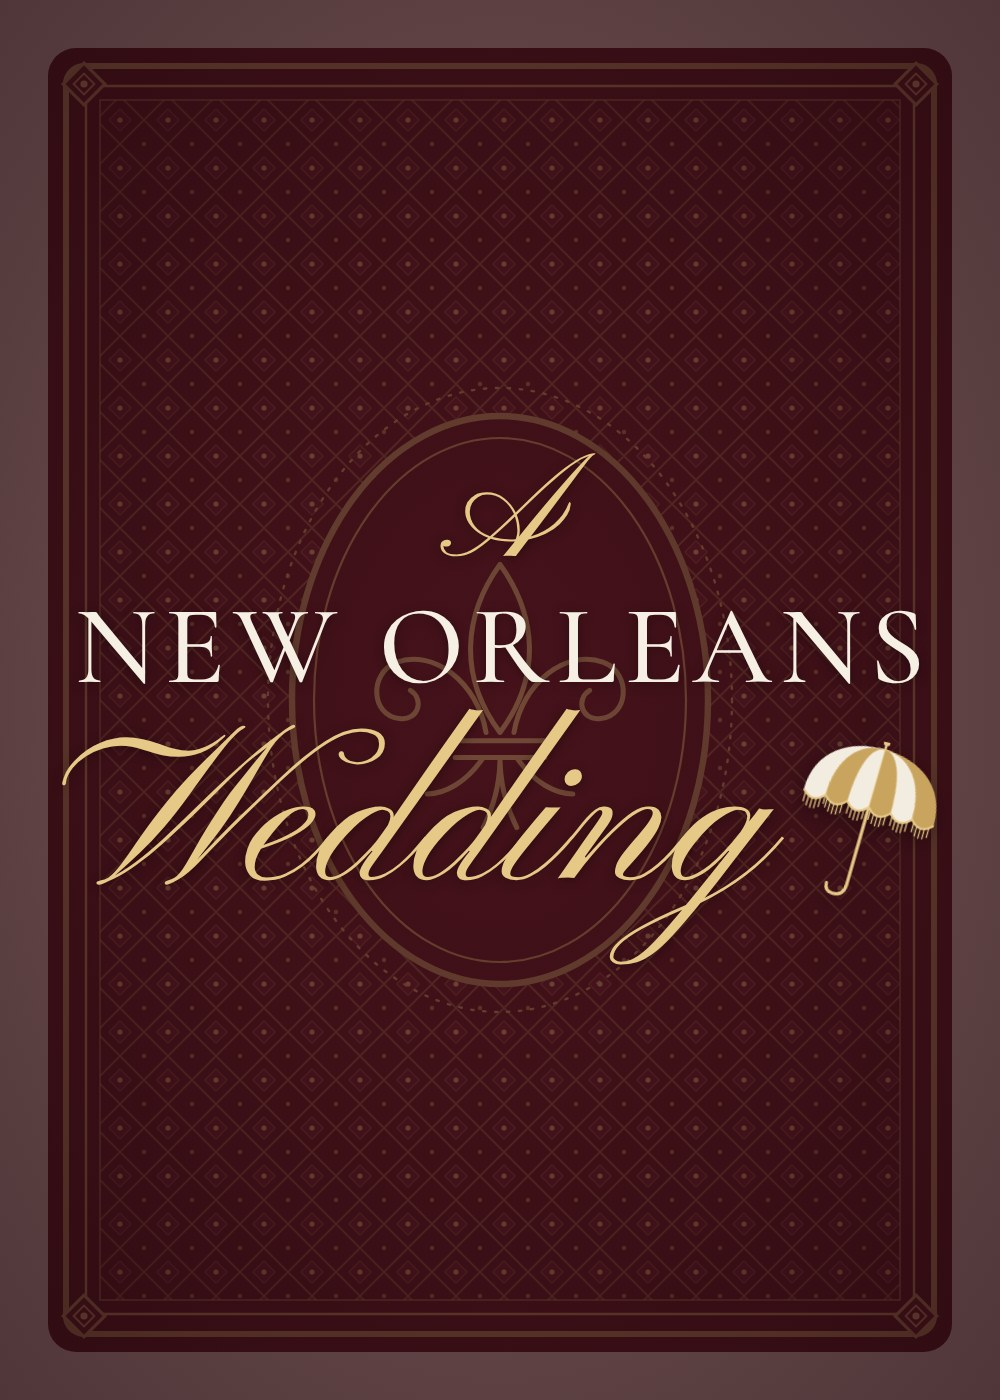
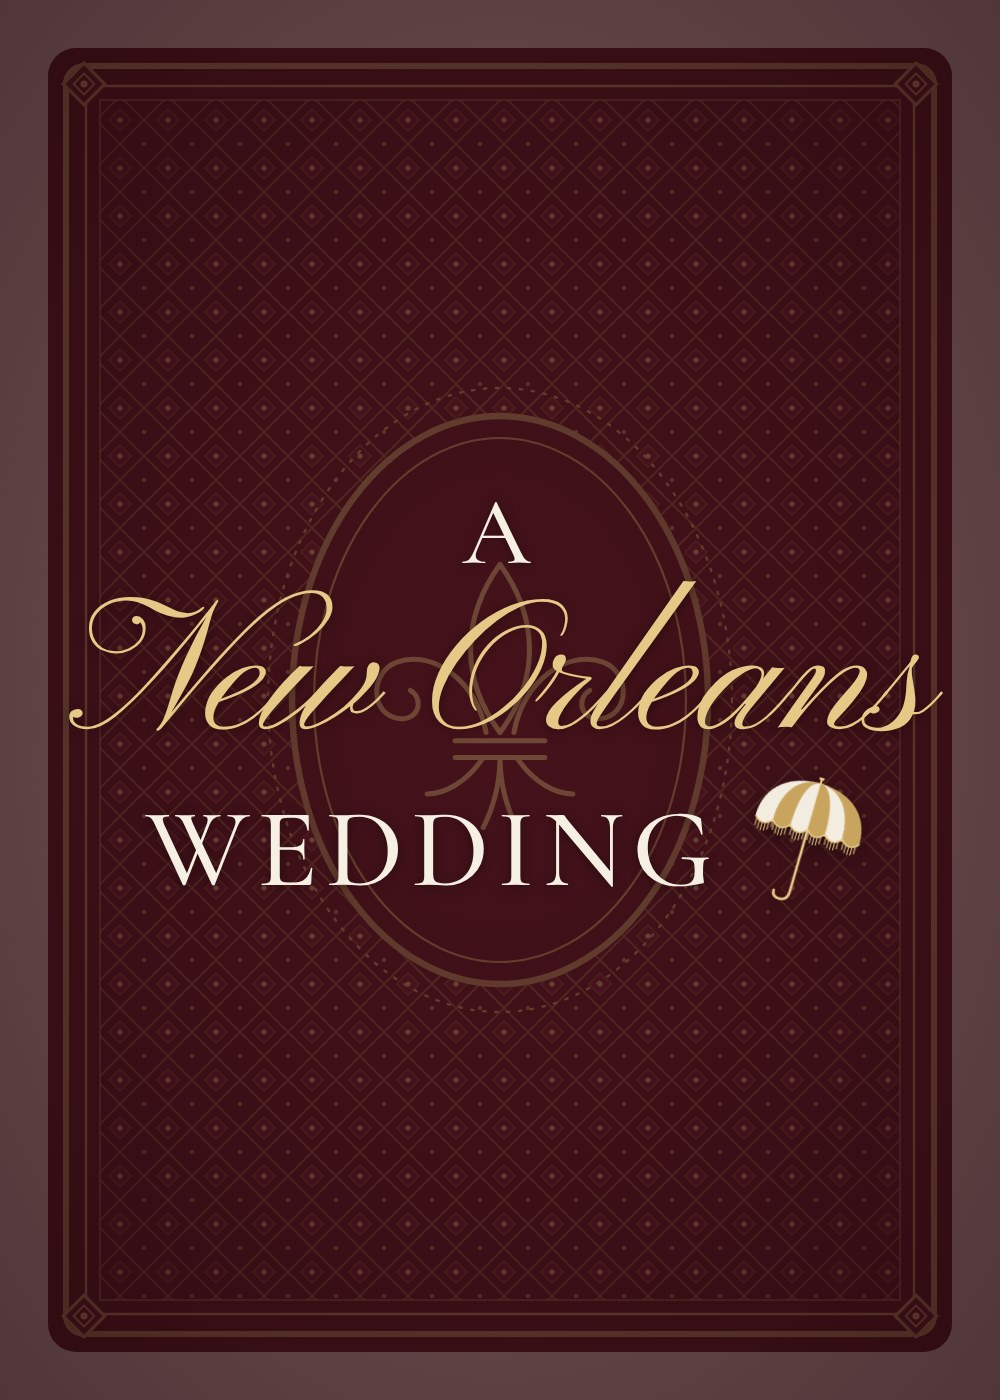
Preview tests: New Orleans in script, A and WEDDING in caps
Claude-Session: https://claude.ai/code/session_016KBQnmGzJaodTgtuWJa9K5

Changed region(s): [[0.062, 0.3993, 0.961, 0.7064], [0.434, 0.3071, 0.589, 0.3993], [0.093, 0.6143, 0.124, 0.645]]

diff --git a/tools/make-previews.js b/tools/make-previews.js
@@ -26,12 +26,12 @@ const titleCSS = (k) => `
 .wash{position:absolute;inset:0;background:radial-gradient(ellipse at center,rgba(58,14,22,.66) 0%,rgba(40,9,15,.8) 100%)}
 .title{position:absolute;inset:0;display:flex;flex-direction:column;align-items:center;justify-content:center;text-align:center;
   text-shadow:0 2px 12px rgba(0,0,0,.35)}
-.title .a{font-family:"Pinyon Script",cursive;color:#e6c887;font-size:${150*k}px;line-height:.85}
-.title .no{font-family:"Cormorant Garamond",Georgia,serif;font-weight:500;color:#f6f0e4;font-size:${112*k}px;letter-spacing:.07em;
-  padding-left:.07em;text-transform:uppercase;line-height:1.1;white-space:nowrap}
-.title .wed{display:flex;align-items:center;justify-content:center;gap:${18*k}px;margin-top:${4*k}px}
-.title .wed span{font-family:"Pinyon Script",cursive;color:#e6c887;font-size:${220*k}px;line-height:1.05}
-.title .wed .p{width:${150*k}px;transform:rotate(16deg) translateY(${-6*k}px);filter:drop-shadow(0 8px 10px rgba(0,0,0,.35))}
+.title .a{font-family:"Cormorant Garamond",Georgia,serif;font-weight:500;color:#f6f0e4;font-size:${96*k}px;letter-spacing:.07em;line-height:1}
+.title .no{font-family:"Pinyon Script",cursive;color:#e6c887;font-size:${190*k}px;line-height:1.15;white-space:nowrap;margin:${-6*k}px 0 ${-10*k}px}
+.title .wed{display:flex;align-items:center;justify-content:center;gap:${22*k}px}
+.title .wed span{font-family:"Cormorant Garamond",Georgia,serif;font-weight:500;color:#f6f0e4;font-size:${112*k}px;letter-spacing:.07em;
+  padding-left:.07em;text-transform:uppercase;line-height:1.1}
+.title .wed .p{width:${120*k}px;transform:rotate(16deg) translateY(${-8*k}px);filter:drop-shadow(0 8px 10px rgba(0,0,0,.35))}
 .title .wed .p svg{display:block;width:100%;height:auto}
 .title .wed .p path[stroke="#3a2a22"]{stroke:#e6c887}`;
 const titleHTML = `<div class="wash"></div><div class="title"><div class="a">A</div><div class="no">New Orleans</div>

diff --git a/preview-test/portrait.html b/preview-test/portrait.html
@@ -10,13 +10,13 @@
   <meta property="og:url" content="https://aneworleanswedding.com/preview-test/portrait.html">
   <meta property="og:title" content="Ailsa ⚜ André">
   <meta property="og:description" content="Save the date · January 8, 2028 · New Orleans, Louisiana">
-  <meta property="og:image" content="https://aneworleanswedding.com/assets/og-card-portrait.jpg?v=4">
+  <meta property="og:image" content="https://aneworleanswedding.com/assets/og-card-portrait.jpg?v=5">
   <meta property="og:image:type" content="image/jpeg">
   <meta property="og:image:width" content="1000">
   <meta property="og:image:height" content="1400">
   <meta property="og:image:alt" content="A maroon playing card back with a gold fleur-de-lis medallion">
   <meta name="twitter:card" content="summary_large_image">
-  <meta name="twitter:image" content="https://aneworleanswedding.com/assets/og-card-portrait.jpg?v=4">
+  <meta name="twitter:image" content="https://aneworleanswedding.com/assets/og-card-portrait.jpg?v=5">
   <link rel="icon" href="../favicon.svg" type="image/svg+xml">
   <style>body{margin:0;min-height:100vh;display:grid;place-items:center;background:#f8f4ec;font-family:Georgia,serif;color:#2f3a33;text-align:center;padding:24px}a{color:#5c1a24}</style>
 </head>

diff --git a/preview-test/square.html b/preview-test/square.html
@@ -10,13 +10,13 @@
   <meta property="og:url" content="https://aneworleanswedding.com/preview-test/square.html">
   <meta property="og:title" content="Ailsa ⚜ André">
   <meta property="og:description" content="Save the date · January 8, 2028 · New Orleans, Louisiana">
-  <meta property="og:image" content="https://aneworleanswedding.com/assets/og-card-square.jpg?v=4">
+  <meta property="og:image" content="https://aneworleanswedding.com/assets/og-card-square.jpg?v=5">
   <meta property="og:image:type" content="image/jpeg">
   <meta property="og:image:width" content="1200">
   <meta property="og:image:height" content="1200">
   <meta property="og:image:alt" content="A maroon playing card back with a gold fleur-de-lis medallion">
   <meta name="twitter:card" content="summary_large_image">
-  <meta name="twitter:image" content="https://aneworleanswedding.com/assets/og-card-square.jpg?v=4">
+  <meta name="twitter:image" content="https://aneworleanswedding.com/assets/og-card-square.jpg?v=5">
   <link rel="icon" href="../favicon.svg" type="image/svg+xml">
   <style>body{margin:0;min-height:100vh;display:grid;place-items:center;background:#f8f4ec;font-family:Georgia,serif;color:#2f3a33;text-align:center;padding:24px}a{color:#5c1a24}</style>
 </head>
